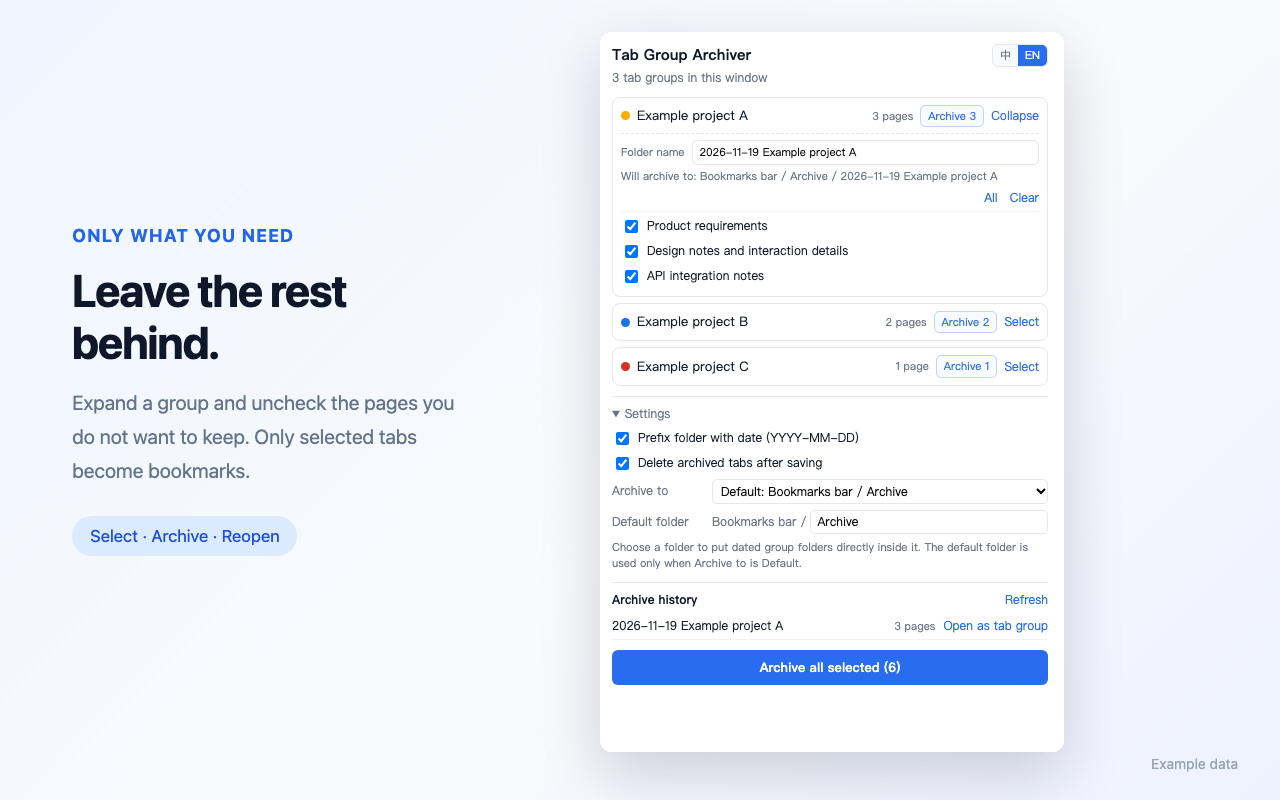
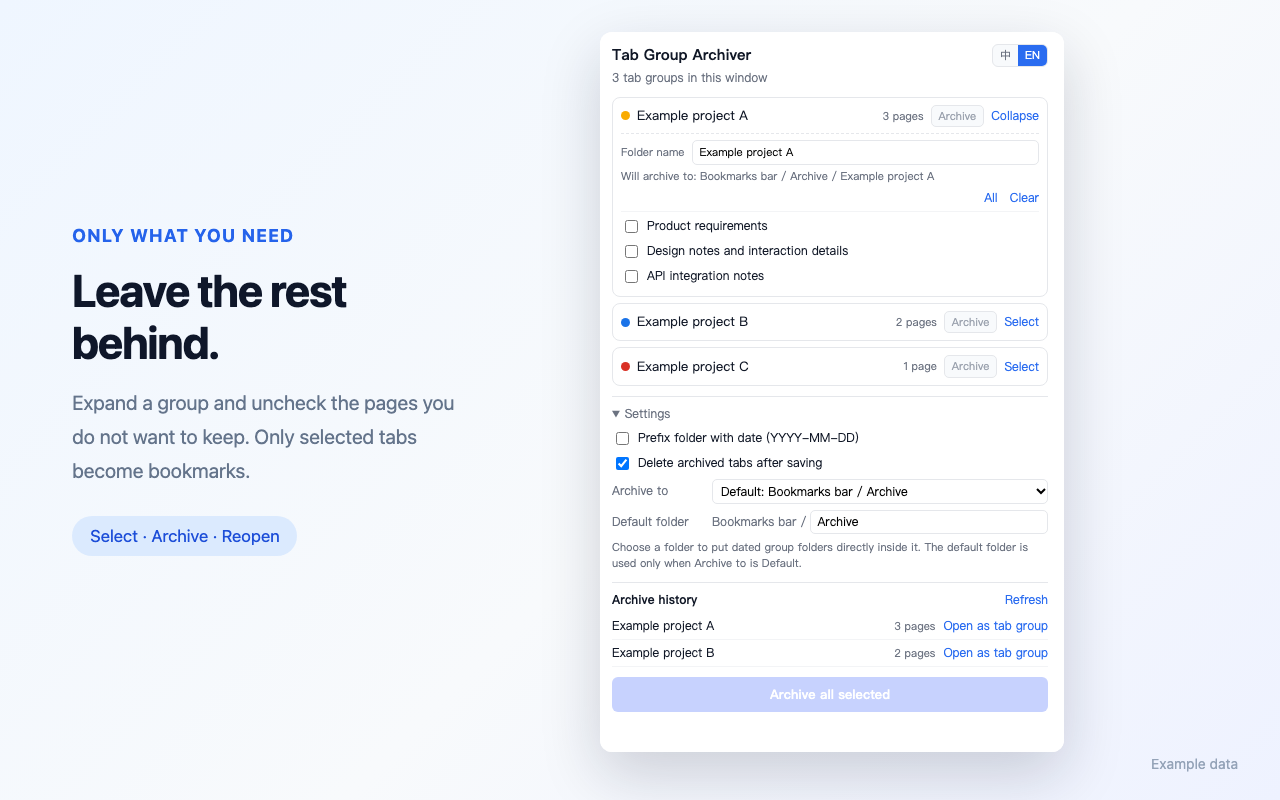
feat: default to empty selection and add archive undo

diff --git a/background.js b/background.js
@@ -77,7 +77,7 @@ function normalizeSettings(raw) {
     destinationFolderId: typeof raw?.destinationFolderId === 'string' && raw.destinationFolderId
       ? raw.destinationFolderId
       : null,
-    datePrefix: raw?.datePrefix !== false,
+    datePrefix: raw?.datePrefix === true,
     closeAfterSave: raw?.closeAfterSave !== false,
   };
 }
@@ -167,7 +167,33 @@ async function archiveGroup(target, parentId, settings) {
     }
   }
 
+  // 记录源标签组，供本次浏览器会话中“恢复/Undo”把页面加回原组。
+  // 使用 session storage：浏览器重启后 groupId 可能复用，不能拿旧 ID 冒险。
+  await saveArchiveMeta(folderId, group).catch(() => undefined);
+
   return { groupId: target.groupId, folderId, folderTitle, added, skipped, failed, closed };
+}
+
+const ARCHIVE_META_KEY = 'archiveMeta';
+
+async function saveArchiveMeta(folderId, group) {
+  if (!chrome.storage?.session) return;
+  const stored = await chrome.storage.session.get(ARCHIVE_META_KEY);
+  const map = { ...(stored[ARCHIVE_META_KEY] || {}) };
+  map[folderId] = {
+    groupId: group.id,
+    title: group.title,
+    color: group.color,
+    archivedAt: Date.now(),
+  };
+  const entries = Object.entries(map).slice(-100);
+  await chrome.storage.session.set({ [ARCHIVE_META_KEY]: Object.fromEntries(entries) });
+}
+
+async function readArchiveMeta(folderId) {
+  if (!chrome.storage?.session) return null;
+  const stored = await chrome.storage.session.get(ARCHIVE_META_KEY);
+  return stored[ARCHIVE_META_KEY]?.[folderId] || null;
 }
 
 async function resolveArchiveParent(settings, createDefault) {
@@ -252,11 +278,35 @@ async function openArchive(folderId, language = 'en') {
     .filter((url) => isBookmarkableUrl(url)))];
 
   if (!urls.length) throw new Error(t(language, 'errorArchiveEmpty'));
-  const [active] = await chrome.tabs.query({ active: true, lastFocusedWindow: true });
-  const windowId = active?.windowId;
-  const tabIds = [];
 
-  for (const url of urls) {
+  const meta = await readArchiveMeta(folderId);
+  let targetGroup = null;
+  if (meta?.groupId) {
+    try {
+      targetGroup = await chrome.tabGroups.get(meta.groupId);
+    } catch {
+      targetGroup = null;
+    }
+  }
+
+  const [active] = await chrome.tabs.query({ active: true, lastFocusedWindow: true });
+  const windowId = targetGroup?.windowId ?? active?.windowId;
+  const existingUrls = targetGroup
+    ? new Set((await chrome.tabs.query({ groupId: targetGroup.id })).map((tab) => tab.url).filter(Boolean))
+    : new Set();
+  const missingUrls = urls.filter((url) => !existingUrls.has(url));
+
+  if (targetGroup && missingUrls.length === 0) {
+    return {
+      groupId: targetGroup.id,
+      opened: 0,
+      title: targetGroup.title || folder.title,
+      restoredToGroup: true,
+    };
+  }
+
+  const tabIds = [];
+  for (const url of missingUrls) {
     const tab = await chrome.tabs.create({
       url,
       active: false,
@@ -265,11 +315,27 @@ async function openArchive(folderId, language = 'en') {
     tabIds.push(tab.id);
   }
 
-  const groupOptions = { tabIds };
-  if (windowId) groupOptions.createProperties = { windowId };
-  const groupId = await chrome.tabs.group(groupOptions);
-  await chrome.tabGroups.update(groupId, { title: String(folder.title).slice(0, 50), collapsed: false });
-  return { groupId, opened: tabIds.length, title: folder.title };
+  let groupId;
+  if (targetGroup) {
+    groupId = await chrome.tabs.group({ groupId: targetGroup.id, tabIds });
+    await chrome.tabGroups.update(groupId, { title: targetGroup.title || String(folder.title).slice(0, 50), collapsed: false });
+  } else {
+    const groupOptions = { tabIds };
+    if (windowId) groupOptions.createProperties = { windowId };
+    groupId = await chrome.tabs.group(groupOptions);
+    await chrome.tabGroups.update(groupId, {
+      title: String(folder.title).slice(0, 50),
+      collapsed: false,
+      ...(meta?.color ? { color: meta.color } : {}),
+    });
+  }
+
+  return {
+    groupId,
+    opened: tabIds.length,
+    title: targetGroup?.title || folder.title,
+    restoredToGroup: Boolean(targetGroup),
+  };
 }
 
 function bookmarkTitle(title, url) {

diff --git a/popup.js b/popup.js
@@ -184,10 +184,7 @@ async function render() {
   els.list.textContent = '';
 
   for (const group of groups) {
-    selectedByGroup.set(
-      group.id,
-      new Set(group.tabs.filter((tab) => isBookmarkableUrl(pickTabUrl(tab))).map((tab) => tab.id)),
-    );
+    selectedByGroup.set(group.id, new Set());
   }
 
   if (!groups.length) {
@@ -328,7 +325,7 @@ function groupRow(group) {
     label.className = `tab-row${supported ? '' : ' disabled'}`;
     const checkbox = document.createElement('input');
     checkbox.type = 'checkbox';
-    checkbox.checked = supported;
+    checkbox.checked = false;
     checkbox.disabled = !supported;
     checkbox.dataset.tabId = String(tab.id);
     checkbox.dataset.unsupported = supported ? '0' : '1';
@@ -485,7 +482,9 @@ async function openArchive(folderId) {
     await render();
     await loadArchives();
     els.result.hidden = false;
-    els.result.textContent = t(language, 'openResult', { title: reply.title, count: reply.opened });
+    els.result.textContent = reply.restoredToGroup
+      ? (reply.opened ? t(language, 'restoreResult', { count: reply.opened }) : t(language, 'alreadyInGroup'))
+      : t(language, 'openResult', { title: reply.title, count: reply.opened });
   } catch (error) {
     showError(error);
   } finally {
@@ -524,7 +523,7 @@ function showResults(results) {
       const open = document.createElement('button');
       open.type = 'button';
       open.className = 'link-button';
-      open.textContent = t(language, 'openAsGroup');
+      open.textContent = t(language, item.closed ? 'restoreTabs' : 'openAsGroup');
       open.addEventListener('click', () => void openArchive(item.folderId));
       line.append(' ', open);
     }

diff --git a/i18n.js b/i18n.js
@@ -56,6 +56,9 @@ const MESSAGES = {
     errorPrefix: 'Error: ',
     groupFallback: 'Group {id}',
     openResult: 'Opened “{title}” as a tab group ({count} pages)',
+    restoreResult: 'Restored {count} pages to the original tab group',
+    alreadyInGroup: 'These pages are already in the original tab group',
+    restoreTabs: 'Undo archive',
     errorNoTargets: 'No pages selected to archive',
     errorDestinationMissing: 'The destination bookmark folder no longer exists. Choose another folder.',
     errorBookmarksBar: 'Could not find the Bookmarks bar',
@@ -117,6 +120,9 @@ const MESSAGES = {
     errorPrefix: '错误：',
     groupFallback: '组 {id}',
     openResult: '已打开「{title}」为标签组，共 {count} 个页面',
+    restoreResult: '已将 {count} 个页面恢复到原标签组',
+    alreadyInGroup: '这些页面已经在原标签组中',
+    restoreTabs: '撤销归档',
     errorNoTargets: '没有选择要收录的页面',
     errorDestinationMissing: '目标书签文件夹不存在或已被删除，请重新选择',
     errorBookmarksBar: '找不到书签栏',

diff --git a/lib.js b/lib.js
@@ -6,7 +6,7 @@ export const UNTITLED_GROUP = '未命名组';
 export const DEFAULT_SETTINGS = {
   rootFolder: '需求归档',
   destinationFolderId: null,
-  datePrefix: true,
+  datePrefix: false,
   closeAfterSave: true,
   language: 'en',
 };

diff --git a/popup.css b/popup.css
@@ -131,6 +131,13 @@ button:not(:disabled) {
   background: #eef3fe;
 }
 
+.save-group:disabled {
+  border-color: var(--line);
+  background: #f8fafc;
+  color: #9ca3af;
+  cursor: default;
+}
+
 .link-button {
   padding: 0;
   border: none;

diff --git a/README.md b/README.md
@@ -1,12 +1,12 @@
 # Tab Group Archiver
 
-**A Chrome extension that archives selected tabs from tab groups into dated bookmark folders — and can reopen an archive as a tab group.**
+**A Chrome extension that archives selected tabs from tab groups into bookmark folders — and can reopen an archive as a tab group.**
 
 [![Chrome MV3](https://img.shields.io/badge/Chrome-MV3-4285F4?logo=googlechrome&logoColor=white)](#install)
 [![License: MIT](https://img.shields.io/badge/License-MIT-yellow.svg)](LICENSE)
 [![Latest release](https://img.shields.io/github/v/release/FinA1ee/chrome-tabgroup-bookmark)](https://github.com/FinA1ee/chrome-tabgroup-bookmark/releases)
 
-[中文说明](README.zh-CN.md) · [Latest release](https://github.com/FinA1ee/chrome-tabgroup-bookmark/releases/tag/v1.1.8) · [Privacy](PRIVACY.md) · [MIT License](LICENSE)
+[中文说明](README.zh-CN.md) · [Latest release](https://github.com/FinA1ee/chrome-tabgroup-bookmark/releases/tag/v1.1.9) · [Privacy](PRIVACY.md) · [MIT License](LICENSE)
 
 ![Tab Group Archiver](docs/screenshots/hero.png)
 
@@ -20,13 +20,13 @@ The extension is local-only: no account, no backend, no analytics, no network re
 
 ## Features
 
-- **Pick only the tabs you need.** Expand a group and uncheck pages you do not want to keep.
-- **Dated archive folders.** The default layout is `Bookmarks bar / Archive / YYYY-MM-DD Group name`.
+- **Pick only the tabs you need.** Expand a group and check the pages to keep; nothing is selected by default.
+- **Folder names first, dates optional.** The default layout is `Bookmarks bar / Archive / Group name`; turn on date prefixes under Settings if you want chronological sorting.
 - **Choose a destination.** Use the default archive folder or any existing bookmark folder.
-- **Rename the archive folder.** Each group gets an editable folder name with a live destination preview; leave it blank to use the automatic dated name.
+- **Rename the archive folder.** Each group gets an editable folder name with a live destination preview; leave it blank to use the automatic name.
 - **Safe to repeat.** Existing folders are reused and duplicate URLs are skipped.
 - **Delete after archiving.** On by default: only successfully archived, selected tabs are closed. Unselected tabs and failed writes are kept.
-- **Reopen an archive as a tab group.** The history list can recreate the pages and group them under the original folder name.
+- **Reopen an archive as a tab group.** The history list can recreate the pages and group them. If the original group still exists in this browser session, restored pages are added back to it; otherwise a new group is created.
 - **English and Chinese UI.** Switch between 中 and EN in the popup header; the choice is saved locally.
 - **Popup-safe writes.** Bookmark writes run in the MV3 service worker, so closing the popup does not stop an archive already in progress.
 
@@ -63,7 +63,7 @@ No build step and no package installation are required. The repository itself ca
 ### Behavior notes
 
 - `file://` pages require **Allow access to file URLs** in the extension details.
-- Archive folders and dated group folders are direct children; the extension does not create multi-level paths.
+- Archive folders and group folders are direct children; the extension does not create multi-level paths.
 - Reopened groups use Chrome's default group color; the folder name is restored as the group title.
 - URL deduplication is exact: query strings and hashes are not normalized.
 - A failed bookmark write prevents automatic page deletion for that group.
@@ -111,7 +111,7 @@ Only one settings object is stored locally:
 {
   rootFolder: "Archive",
   destinationFolderId: null,
-  datePrefix: true,
+  datePrefix: false,
   closeAfterSave: true
 }
 ```
@@ -141,7 +141,7 @@ GitHub Actions runs both tests and syntax checks on every push.
 
 ## Release
 
-- [v1.1.8](https://github.com/FinA1ee/chrome-tabgroup-bookmark/releases/tag/v1.1.8)
+- [v1.1.9](https://github.com/FinA1ee/chrome-tabgroup-bookmark/releases/tag/v1.1.9)
 - Store copy and screenshot checklist: [STORE.md](STORE.md)
 - Chrome Web Store submission is pending a developer account review.
 

diff --git a/README.zh-CN.md b/README.zh-CN.md
@@ -5,7 +5,7 @@
 
 [English README](README.md)
 
-把当前窗口的标签组按**选中页面**收录成书签文件夹，按「日期 + 组名」归档。适合用标签组管理项目、需求或调研资料，整理完标签后仍能找回链接，也可以把归档文件夹重新打开成标签组。
+把当前窗口的标签组按**选中页面**收录成书签文件夹，按组名归档（日期前缀可选）。适合用标签组管理项目、需求或调研资料，整理完标签后仍能找回链接，也可以把归档文件夹重新打开成标签组。
 
 - 界面默认英文，支持中文 / English，右上角可切换
 - 纯本地、无网络请求、无第三方依赖
@@ -14,14 +14,14 @@
 
 ## 功能
 
-- 展开标签组，勾选需要归档的页面，只收录选中的部分
-- 默认归档到 `书签栏 / 需求归档 / YYYY-MM-DD 组名 /`
+- 展开标签组，勾选需要归档的页面，只收录选中的部分；默认不选中任何页面
+- 默认归档到 `书签栏 / 需求归档 / 组名 /`；需要按时间排序时可在设置中打开日期前缀
 - 也可以选择书签栏下的任意具体文件夹作为归档父目录
 - 每组可编辑归档文件夹名，并实时预览最终路径；留空回退自动名称
 - 同名文件夹复用、同 URL 去重，重复点击安全
 - 归档成功后默认删除本次已收录的页面；未选页面保留
 - 有书签写入失败时不删除任何页面
-- 历史归档可一键重新打开为标签组，组名使用归档文件夹名
+- 历史归档可一键重新打开为标签组；如果原标签组仍在当前浏览器会话中，会把页面加回原组，否则新建标签组
 - 设置可改：默认目录名、是否带日期前缀、是否删除已收录页面
 
 ## 安装
@@ -48,7 +48,7 @@
 - 多个收录请求会排队执行，避免并发创建同名文件夹或重复书签
 - 组名为空时用「未命名组」
 - 文件夹名里的 `/ \ : * ? " < > |` 会换成全角
-- 归档目录是单层文件夹；选择具体文件夹后，日期子文件夹直接落在该文件夹下
+- 归档目录是单层文件夹；选择具体文件夹后，组文件夹直接落在该文件夹下
 - 删除页面是默认行为，但只删除本次成功归档的页面；有失败时全部保留
 - 重新打开归档时，书签会变成当前窗口的新标签页并组成标签组；组颜色使用 Chrome 默认颜色
 
@@ -85,7 +85,7 @@ node --check background.js
 ## 发布
 
 - 扩展目录就是发布目录，无需构建；商店上传时可压缩本目录，排除测试文件和仓库元数据。
-- 最新 Release：[v1.1.8](https://github.com/FinA1ee/chrome-tabgroup-bookmark/releases/tag/v1.1.8)
+- 最新 Release：[v1.1.9](https://github.com/FinA1ee/chrome-tabgroup-bookmark/releases/tag/v1.1.9)
 - 设计说明：[design.md](design.md)
 - 任务拆解：[tasks.md](tasks.md)
 - 隐私说明：[PRIVACY.md](PRIVACY.md)
@@ -102,4 +102,4 @@ node --check background.js
 - `file://` 页面需要在扩展详情里开启「允许访问文件网址」
 - 书签去重按 URL 原文比较，不合并仅 query/hash 不同的链接
 - 重新打开归档不恢复标签组颜色，只恢复组名
-- 归档目录和日期组文件夹都是直接子级，不创建多级路径
+- 归档目录和组文件夹都是直接子级，不创建多级路径

diff --git a/STORE.md b/STORE.md
@@ -3,10 +3,10 @@
 ## 基本信息
 
 - 名称：Tab 组收录
-- 短描述（建议）：把标签组中选中的页面归档成书签，支持日期文件夹和重新打开为标签组。
+- 短描述（建议）：把标签组中选中的页面归档成书签，支持自定义文件夹名和重新打开为标签组。
 - 分类：Productivity
 - 语言：English / 中文（界面右上角可切换）
-- 版本：1.1.8
+- 版本：1.1.9
 - 官网/仓库：https://github.com/FinA1ee/chrome-tabgroup-bookmark
 - 隐私说明：https://github.com/FinA1ee/chrome-tabgroup-bookmark/blob/main/PRIVACY.md
 
@@ -15,7 +15,7 @@
 用 Chrome 标签组管理项目很方便，但整理完标签后，重要链接容易一起被删掉。Tab 组收录可以把标签组按选中页面归档到书签：
 
 - 展开标签组，只选择需要保留的页面
-- 按「日期 + 组名」创建书签文件夹
+- 按组名创建书签文件夹，日期前缀可选
 - 默认归档到「书签栏 / 需求归档」，也可以选择任意书签文件夹
 - 同名文件夹复用，同 URL 去重，重复收录不会产生重复书签
 - 归档成功后可以自动删除已收录页面；未选页面和有写入失败的页面会保留

diff --git a/CHANGELOG.md b/CHANGELOG.md
@@ -1,5 +1,11 @@
 # Changelog
 
+## 1.1.9
+
+- 日期前缀改为可选且默认关闭，默认使用组名/自定义文件夹名
+- 标签组页面默认不选中，用户主动勾选后才可收录
+- 历史归档恢复时优先加回原标签组，原组不存在时新建组
+
 ## 1.1.8
 
 - 每组新增可编辑的归档文件夹名，默认自动生成，留空回退自动名
